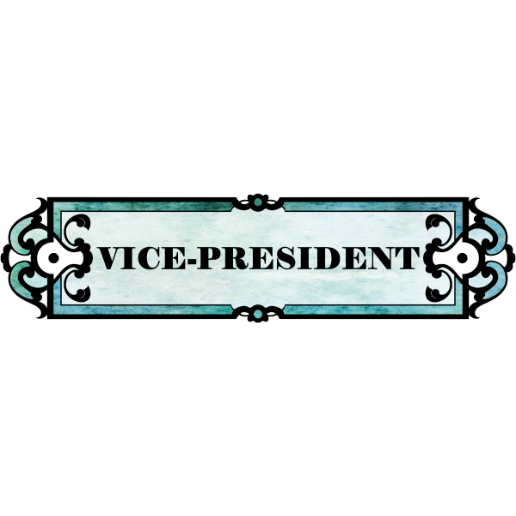
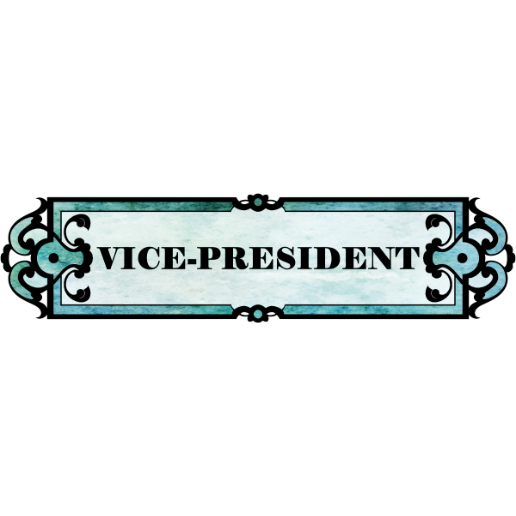
change executives symbol

Changed region(s): [[0.062, 0.4651, 0.186, 0.5581], [0.8372, 0.4651, 0.9302, 0.5581]]

diff --git a/src/components/sections/Contact.vue b/src/components/sections/Contact.vue
@@ -35,16 +35,20 @@
       font-size: 5rem;
       content: 'Ι';
       animation-name: twinkling;
-      animation-duration: .8s;
+      animation-duration: .5s;
       animation-direction: alternate;
       animation-iteration-count: infinite;
+      animation-timing-function: step-end;
     }
     @keyframes twinkling {
       0% {
         opacity: 0;
       }      
-      100% {
+      50% {
         opacity: 1;
+      }
+      100%{
+        opacity: 0;
       }
     }
   }
@@ -53,10 +57,10 @@
     display: flex;
     justify-content: center;
     align-items: center;
-     height: 80px;
-  width: 300px;
-  margin: 2rem 0;
-  font-size: 2rem;
+    height: 80px;
+    width: 300px;
+    margin: 2rem 0;
+    font-size: 2rem;    
     span {
       font-size: 2rem;
       margin-right: 10px;

diff --git a/src/components/sections/Executives.vue b/src/components/sections/Executives.vue
@@ -22,11 +22,11 @@
                 alt="office" />
               <img
                 class="img"
-                src="~/assets/executives_symbol/office.png"
+                src="~/assets/executives_symbol/ex_soumu.png"
                 alt="office" />
               <img
                 class="img"
-                src="~/assets/executives_symbol/office.png"
+                src="~/assets/executives_symbol/ex_kouhou.png"
                 alt="office" />
               <img
                 class="img"

diff --git a/src/config/routes/home.js b/src/config/routes/home.js
@@ -456,7 +456,7 @@ export default function () {
       if(i<text.length){
         contactTitle.innerHTML += text.charAt(i);
         i++;
-        setTimeout(contactTitleTyping, 120);
+        setTimeout(contactTitleTyping, 150);
       }
     }    
     function enterSection() {
